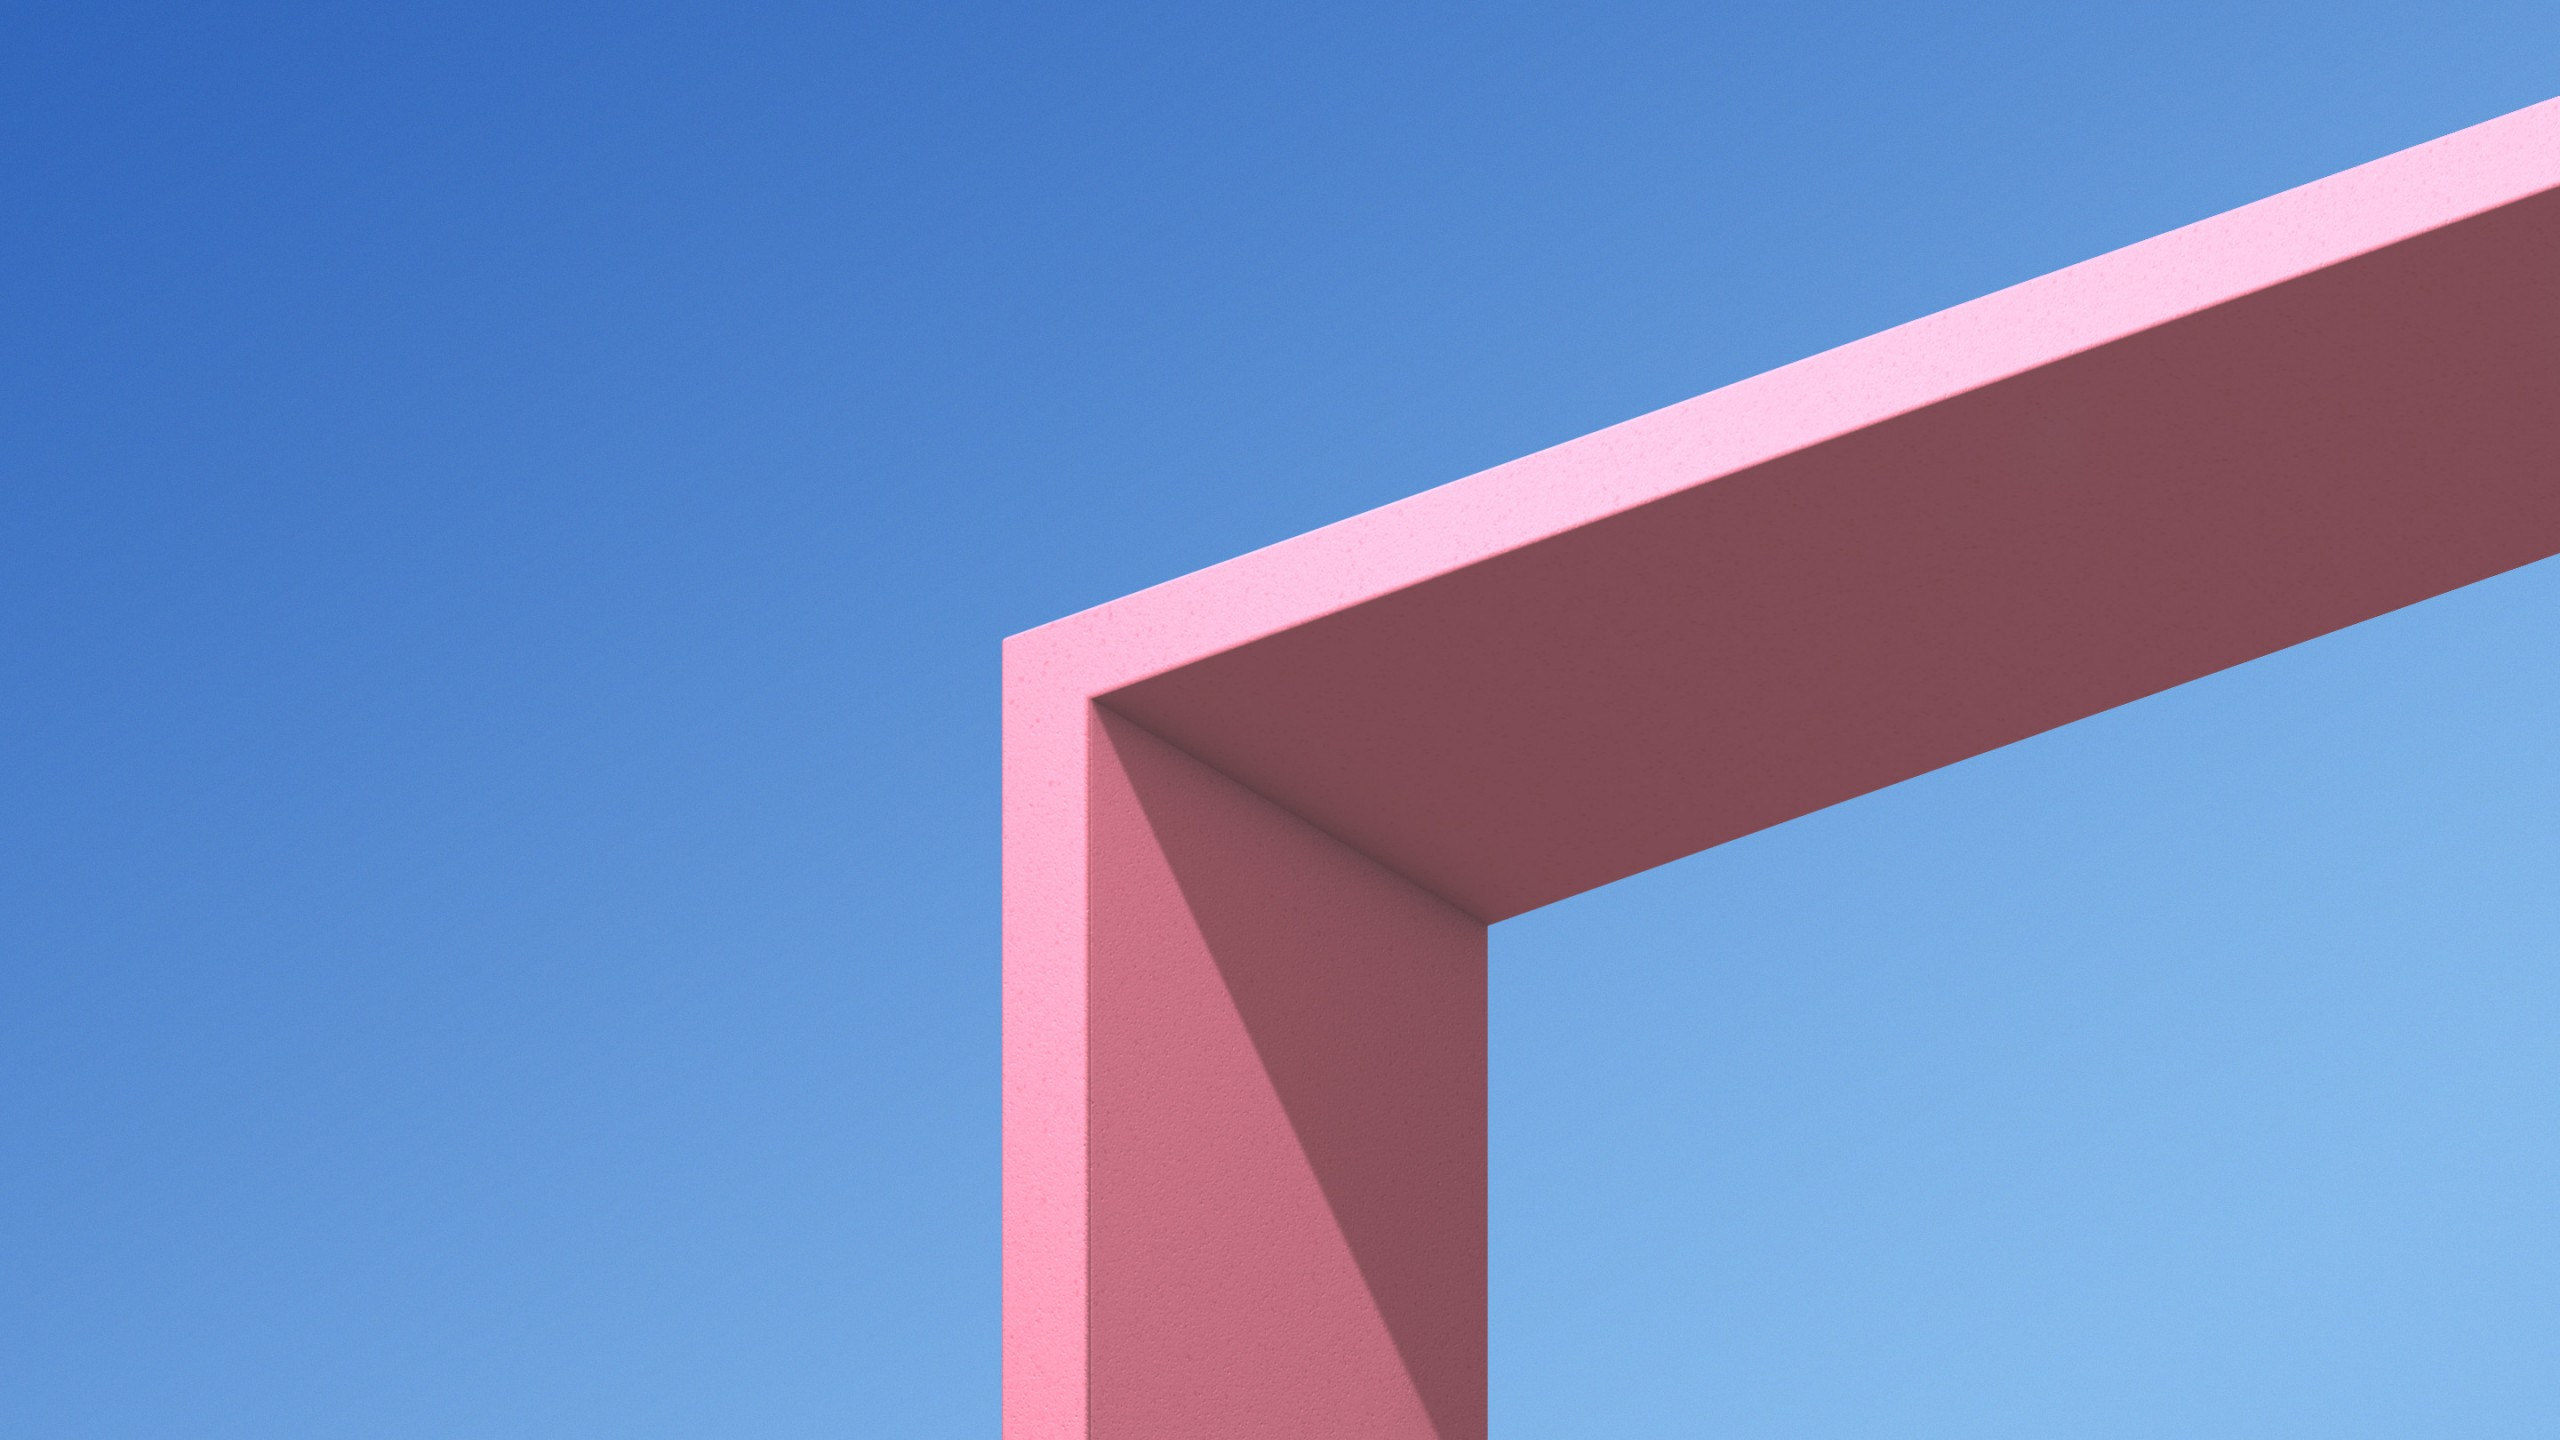
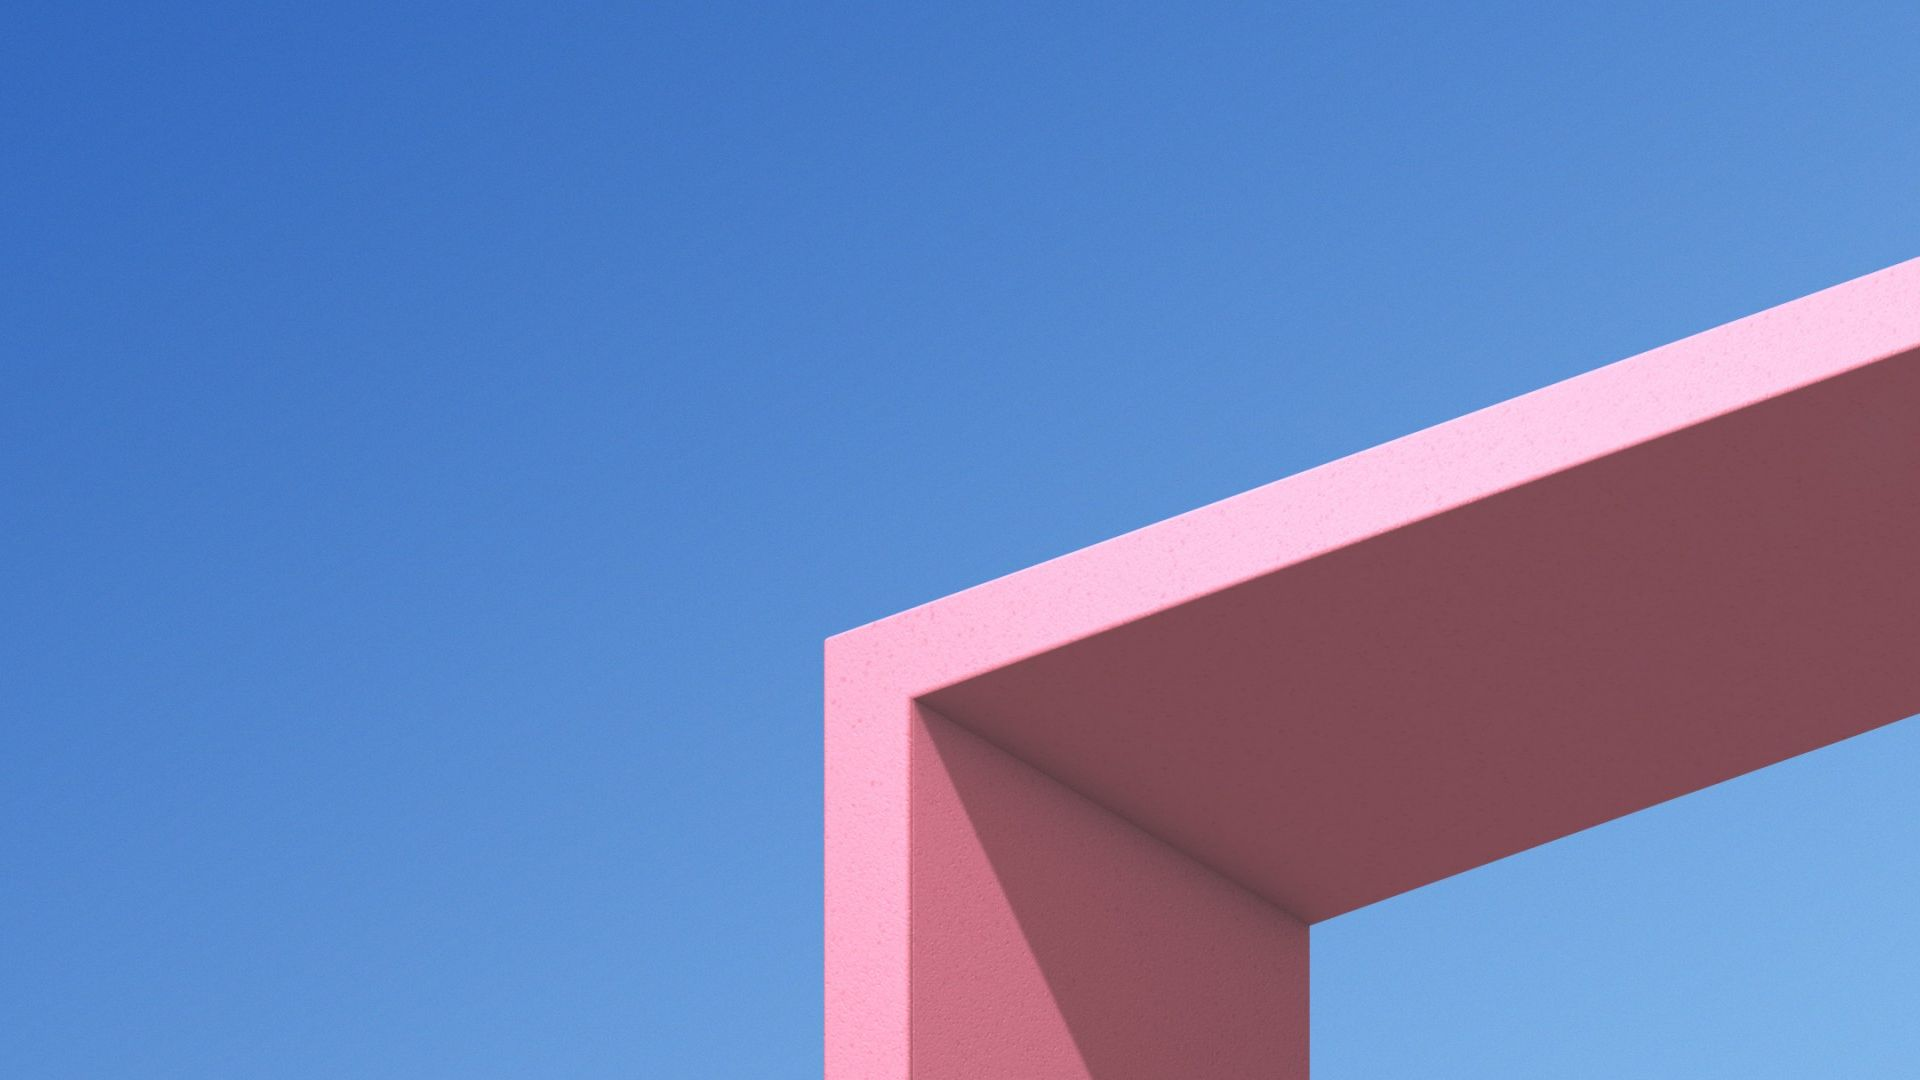
redo

diff --git a/main.css b/main.css
@@ -45,7 +45,7 @@ header {
 }
 
 .section:nth-child(1) {
-  background-image: url('celery.jpg');
+  background-image: url('bigback.jpg');
   -o-background-size:100% auto;
   -webkit-background-size:100% auto;
   -moz-background-size:100% auto;
@@ -81,14 +81,14 @@ header {
   z-index: 3;
 }
 .section:nth-child(3) .fixed {
-  -webkit-transform: translate(-50%, -50%);
-          transform: translate(-50%, -50%);
+  -webkit-transform: translate(-20%, -20%);
+          transform: translate(-20%, -20%);
 }
 
 .section:nth-child(4) {
   -webkit-box-shadow: inset 0 1px 80px rgba(0, 0, 0, 0.14);
           box-shadow: inset 0 1px 80px rgba(0, 0, 0, 0.14);
-  background-image: url('whitebuilding.jpg');
+  background-image: url('whiteb.jpg');
   -o-background-size:100% auto;
   -webkit-background-size:100% auto;
   -moz-background-size:100% auto;

diff --git a/index.html b/index.html
@@ -34,7 +34,7 @@
   
 </div>
 <div class="section">
-  <div id ="overflow" class="p fixedo">The overflow of noise in our real world markets<br> catalyze complex human behavior that injects disorder<br> and chaos to stock prices. The outcome? A random walk.<br>We all have seen it and we all know deep to our hearts<br> that in times of constant pressure prices are nothing<br> but a vapor wave.
+  <div id ="overflow" class="p fixedo">The overflow of noise in our real world markets<br> catalyzes complex human behavior that injects disorder<br> and chaos to stock prices. The outcome? A random walk.<br>We all have seen it and we all know deep to our hearts<br> that in times of constant pressure prices are nothing<br> but a vapor wave.
     <br><br>
 
 If it&apos;s a gamble the least we can do is to make it fair.
